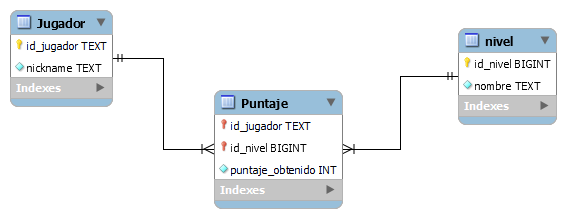
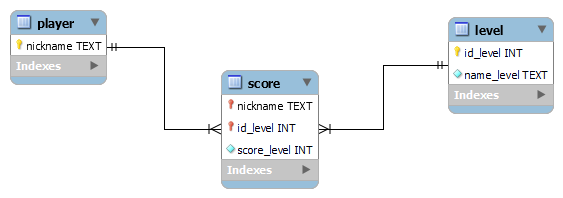
update

Changed region(s): [[0.0, 0.0303, 0.9964, 0.7273], [0.3623, 0.7273, 0.6039, 0.9697]]

diff --git a/README.md b/README.md
@@ -16,6 +16,8 @@ Construcción de un videojuego con un mínimo de 5 niveles. Debe incluir input, 
 ### Organización
 ------------
     ├── img
+    │   ├── Diagrama_de_clases.png
+    │   └── MR.png
     ├── resources
     │   ├── fonts
     │   ├── images
@@ -27,19 +29,27 @@ Construcción de un videojuego con un mínimo de 5 niveles. Debe incluir input, 
     │   ├── character
     │   │   ├── __init__.py
 	│   │   └── Character.py
+    │   ├── constant
+    │   │   ├── __init__.py
+	│   │   └── constant.py
     │   ├── enemy
     │   │   ├── __init__.py
 	│   │   └── Enemy.py
     │   ├── level
     │   │   ├── __init__.py
+    │   │   ├── Boss.py
 	│   │   └── Level.py
     │   ├── platform
     │   │   ├── __init__.py
 	│   │   └── Platform.py
     │   ├── sql
     │   │   ├── __init__.py
-	│   │   └── Connection.py
+    │   │   ├── Connection.py
+	│   │   └── ProyectoProgramacionAvanzada.db -> Base de datos Sqlite3
     │   └── main.py
 --------
 ### Diagrama de clases
-![Diagrama de clases](img/Diagrama_de_clases.png)
+![Diagrama de clases](img/Diagrama.png)
+
+### Modelo Relacional
+![Modelo relacional](img/MR.png)
